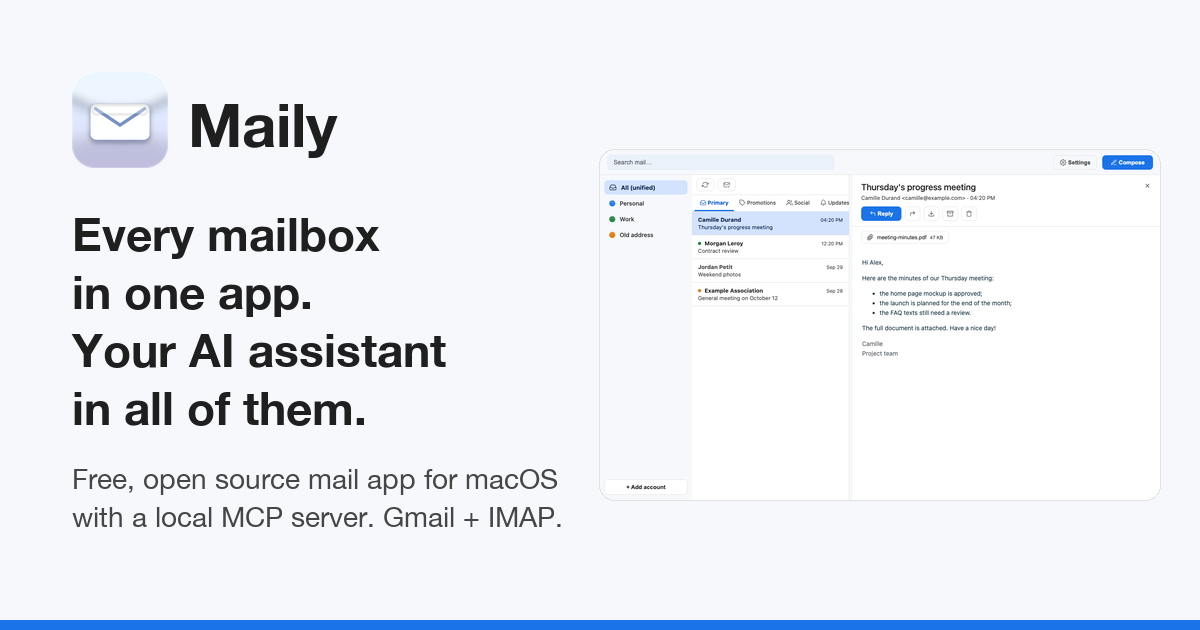
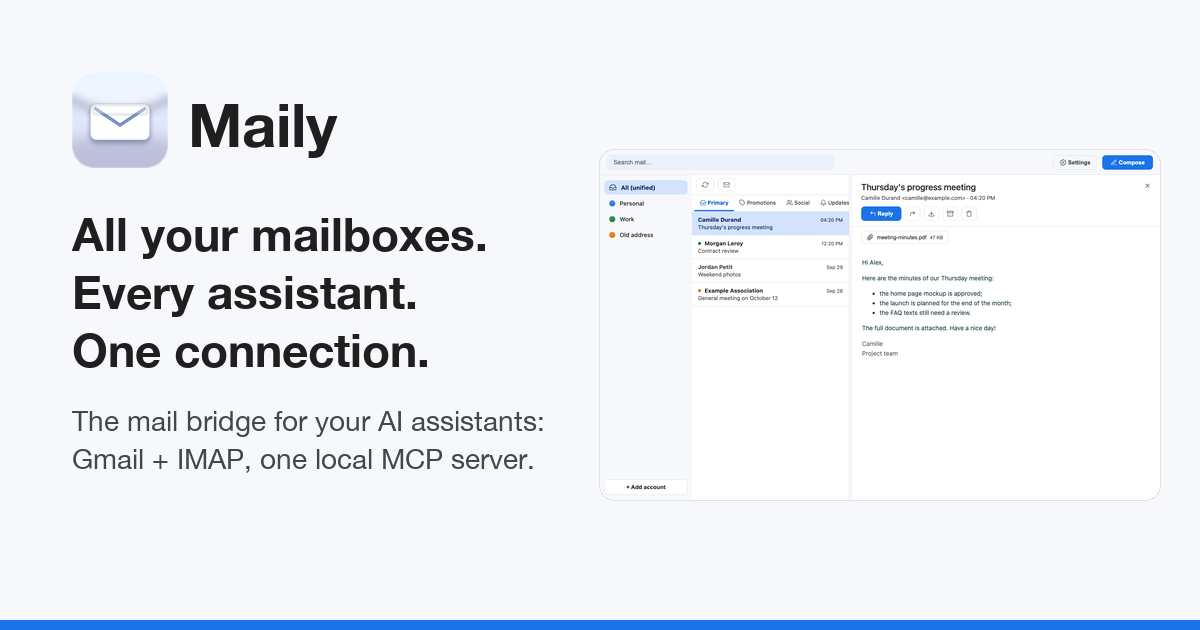
Regenerate the Open Graph image with the new headline

Changed region(s): [[0.0617, 0.3317, 0.4625, 0.8444]]

diff --git a/scripts/site_assets.py b/scripts/site_assets.py
@@ -54,11 +54,11 @@ def og_image(source: Image.Image) -> None:
     og.paste(logo, (72, 72), logo)
     draw.text((188, 88), "Maily", font=font(60, True), fill="#1f1f1f")
     y = 206
-    for line in ["Every mailbox", "in one app.", "Your AI assistant", "in all of them."]:
+    for line in ["All your mailboxes.", "Every assistant.", "One connection."]:
         draw.text((72, y), line, font=font(46, True), fill="#1f1f1f")
         y += 58
-    draw.text((72, y + 24), "Free, open source mail app for macOS", font=font(28), fill="#444746")
-    draw.text((72, y + 62), "with a local MCP server. Gmail + IMAP.", font=font(28), fill="#444746")
+    draw.text((72, y + 24), "The mail bridge for your AI assistants:", font=font(28), fill="#444746")
+    draw.text((72, y + 62), "Gmail + IMAP, one local MCP server.", font=font(28), fill="#444746")
     shot = Image.open(ROOT / "docs" / "images" / "classic-light.png").convert("RGB")
     shot_w = 560
     shot_h = int(shot.height * shot_w / shot.width)
